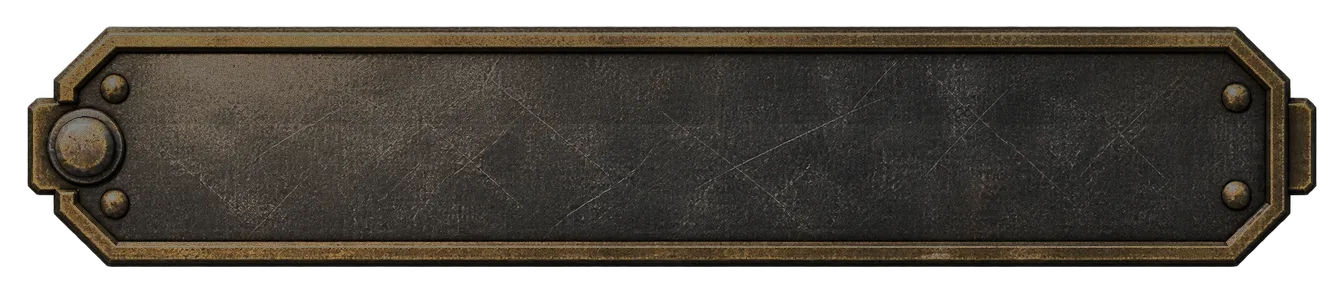
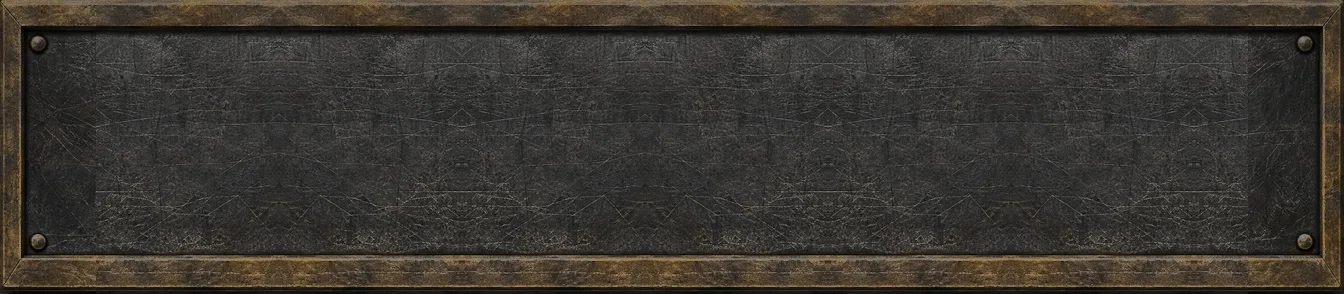
fix(menu): plates drawn per measured box, opaque to the edge
The search and rail buttons kept a plate whose silhouette was smaller than the
measured box, so the box edges showed the background through. Fitting is
`contain`, and `contain` is measured from the background positioning area, so
the positioning area is now the border box on the search row, the rail and the
desktop menu rule (>=970px); no `100% 100%` and no box was narrowed.

New drawings replace the old ones for those three groups. Each is opaque to all
four edges and drawn at its measured box aspect, so `contain` fills the box:
search 98/152/314/115/178/366, rail undo 135.88 and resign 132, desktop 320. The
phone menu plate is untouched. The rail label no longer lands on a bolt.

menuButtonGeometry.spec.ts and botUndo.spec.ts now assert the plate properties
that make a box close: opaque (no alpha channel) and within 1% of the measured
box aspect, plus border-box on the desktop rule. 621 tests pass, tsc clean.

diff --git a/src/client/app/menuButtonGeometry.spec.ts b/src/client/app/menuButtonGeometry.spec.ts
@@ -140,6 +140,12 @@ it('keeps the search card and its buttons at the main geometry while the count r
 	expect(gates).toContain("url('./ui/siege/button-steel-search-314-rest.webp')");
 	expect(gates).toContain("url('./ui/siege/button-steel-search-366-rest.webp')");
 	expect(gates).toContain('background-size:contain');
+	// `contain` is measured from the background positioning area, and that must be the border
+	// box: with the default padding-box it is fitted to the padded content area, which is
+	// smaller than the measured box, so the box edges show through. Guards the padding-box bug.
+	expect(gates).toMatch(/#opening-search-actions button \{[^}]*background-origin:border-box; background-clip:border-box;/);
+	expect(gates).toMatch(/background-size:contain;\s*background-origin:border-box; background-clip:border-box;/);
+	expect(gates).not.toMatch(/#opening-search-actions button \{[^}]*background-origin:padding-box/);
 	expect(gates).toContain("background-image:url('./ui/siege/button-steel-pressed.webp')");
 	// Короткие экраны: карточка не закрывает соседние половины «Летописи»/«Битв» и не прячет их.
 	// Она ограничена по высоте свободным местом над их верхом и прокручивается внутри.
@@ -150,6 +156,61 @@ it('keeps the search card and its buttons at the main geometry while the count r
 	const panel = html.match(/<div id="opening-search"[\s\S]*?<button id="opening-retry"/)![0];
 	expect(panel).toMatch(
 		/<p id="opening-search-copy"[^>]*>[^<]*<\/p>\s*<\/div>\s*<p id="opening-online-count"[^>]*hidden><\/p>\s*<\/div>\s*<div id="opening-search-actions">/,
+	);
+});
+
+function readWebp(path: string) {
+	const data = readFileSync(path);
+	expect(data.toString('ascii', 0, 4)).toBe('RIFF');
+	expect(data.toString('ascii', 8, 12)).toBe('WEBP');
+	const tag = data.toString('ascii', 12, 16);
+	if (tag === 'VP8 ') {
+		// Lossy keyframe: 3-byte frame tag, the 0x9d012a start code, then two 14-bit sizes.
+		expect(data[23]).toBe(0x9d);
+		expect(data[24]).toBe(0x01);
+		expect(data[25]).toBe(0x2a);
+		return { width: data[26] | ((data[27] & 0x3f) << 8), height: data[28] | ((data[29] & 0x3f) << 8), hasAlpha: false };
+	}
+	if (tag === 'VP8X') {
+		return {
+			width: 1 + (data[24] | (data[25] << 8) | (data[26] << 16)),
+			height: 1 + (data[27] | (data[28] << 8) | (data[29] << 16)),
+			hasAlpha: (data[20] & 0x10) !== 0,
+		};
+	}
+	throw new Error(`unexpected webp chunk ${tag}`);
+}
+
+/**
+ * A plate closes the box only when it was drawn for that box: `contain` fits the whole drawing
+ * into the border box, so the drawing's own aspect must be the measured box aspect and the
+ * drawing must be opaque to the edge. A stretched 100% 100% raster or a re-used foreign plate
+ * fails here even though the CSS still says `contain`.
+ */
+it('gives the search and desktop buttons a plate drawn per measured box, opaque to the edge', () => {
+	// Measured boxes (px at --btn-h:70): search row at 390 is 314/152/98, at 1280 and 1440 it is
+	// 366/178/115.33; the desktop menu is 320.
+	const boxes: [string, number][] = [
+		['button-steel-search-98', 98],
+		['button-steel-search-152', 152],
+		['button-steel-search-314', 314],
+		['button-steel-search-115', 115.33],
+		['button-steel-search-178', 178],
+		['button-steel-search-366', 366],
+		['button-steel-desk', 320],
+	];
+	for (const [stem, boxWidth] of boxes) {
+		for (const state of ['rest', 'pressed']) {
+			const url = new URL(`./ui/siege/${stem}-${state}.webp`, import.meta.url);
+			const size = readWebp(fileURLToPath(url));
+			expect(size.hasAlpha, `${stem}-${state} must be opaque`).toBe(false);
+			// 1% off the box aspect already leaves a visible band on a 70px button.
+			expect(Math.abs(size.width / size.height - boxWidth / BASE_HEIGHT)).toBeLessThan(0.01);
+		}
+	}
+	// The desktop menu rule (>=970px) fits its own 320x70 plate with contain, to the border box.
+	expect(gates).toMatch(
+		/#opening :is\(#opening-play,#opening-online,#opening-retry,#opening-history,#opening-options\) \{\s*background-image:url\('\.\/ui\/siege\/button-steel-desk-rest\.webp'\);[^}]*background-size:contain;\s*background-origin:border-box; background-clip:border-box;/,
 	);
 });
 

diff --git a/src/client/app/openingGates.css b/src/client/app/openingGates.css
@@ -75,7 +75,7 @@
 #opening-online-count[hidden] { display:none; }
 /* Search plaques keep the measured flex boxes. Each ratio has its own plate, contained, not stretched. */
 #opening-search-actions { display:flex; flex-wrap:wrap; gap:10px; justify-content:center; align-items:stretch; }
-#opening-search-actions button { position:relative; flex:1 1 calc(33.333% - 7px); min-width:0; min-height:44px; height:var(--btn-h); display:flex; align-items:center; justify-content:center; margin:0; padding:0 14px 0 22px; border:0; border-radius:0; box-shadow:none; background:transparent url('./ui/siege/button-steel-search-98-rest.webp') center/contain no-repeat; color:#e9e0ce; font:600 clamp(13px,3.9cqw,16px)/1.15 'Golos Text',sans-serif; text-shadow:0 1px 2px #000; transform:none; transition:none; -webkit-tap-highlight-color:transparent; }
+#opening-search-actions button { position:relative; flex:1 1 calc(33.333% - 7px); min-width:0; min-height:44px; height:var(--btn-h); display:flex; align-items:center; justify-content:center; margin:0; padding:0 14px 0 22px; border:0; border-radius:0; box-shadow:none; background:transparent url('./ui/siege/button-steel-search-98-rest.webp') center/contain no-repeat; background-origin:border-box; background-clip:border-box; color:#e9e0ce; font:600 clamp(13px,3.9cqw,16px)/1.15 'Golos Text',sans-serif; text-shadow:0 1px 2px #000; transform:none; transition:none; -webkit-tap-highlight-color:transparent; }
 #opening-search-actions button::before, #opening-search-actions button::after { content:''; position:absolute; top:50%; width:5px; height:5px; border-radius:50%; background:#a29b81; box-shadow:0 1px 2px #000; }
 #opening-search-actions button::before { left:7px; }
 #opening-search-actions button::after { right:7px; }
@@ -155,7 +155,7 @@
 }
 
 #match-rail{position:fixed;z-index:10000;left:50%;bottom:calc(12px + env(safe-area-inset-bottom));transform:translateX(-50%);display:flex;gap:8px;pointer-events:none}
-#match-rail .opening-utility{display:flex;align-items:center;justify-content:center;height:var(--btn-h);min-height:44px;min-width:132px;padding:0 14px;gap:6px;border:0;border-radius:0;box-shadow:none;background:transparent url('./ui/siege/button-steel-rail-resign-rest.webp') center/contain no-repeat;color:#e9e0ce;font:600 16px/1.15 "Golos Text",sans-serif;text-shadow:0 1px 2px #000;transition:none;transform:none;pointer-events:auto;touch-action:manipulation;-webkit-tap-highlight-color:transparent}
+#match-rail .opening-utility{display:flex;align-items:center;justify-content:center;height:var(--btn-h);min-height:44px;min-width:132px;padding:0 14px;gap:6px;border:0;border-radius:0;box-shadow:none;background:transparent url('./ui/siege/button-steel-rail-resign-rest.webp') center/contain no-repeat;background-origin:border-box;background-clip:border-box;color:#e9e0ce;font:600 16px/1.15 "Golos Text",sans-serif;text-shadow:0 1px 2px #000;transition:none;transform:none;pointer-events:auto;touch-action:manipulation;-webkit-tap-highlight-color:transparent}
 #match-rail .opening-utility:active{filter:none;background-image:url('./ui/siege/button-steel-rail-resign-pressed.webp');transform:translateY(2px)}
 #match-rail #match-undo{background-image:url('./ui/siege/button-steel-rail-undo-rest.webp')}
 #match-rail #match-undo:active{background-image:url('./ui/siege/button-steel-rail-undo-pressed.webp')}
@@ -178,6 +178,7 @@
  #opening :is(#opening-play,#opening-online,#opening-retry,#opening-history,#opening-options) {
   background-image:url('./ui/siege/button-steel-desk-rest.webp');
   background-repeat:no-repeat; background-position:center; background-size:contain;
+  background-origin:border-box; background-clip:border-box;
  }
  #opening :is(#opening-play,#opening-online,#opening-retry,#opening-history,#opening-options):active {
   background-image:url('./ui/siege/button-steel-desk-pressed.webp');

diff --git a/src/client/app/botUndo.spec.ts b/src/client/app/botUndo.spec.ts
@@ -1,3 +1,5 @@
+import { readFileSync } from 'node:fs';
+import { fileURLToPath } from 'node:url';
 import css from './openingGates.css?raw';
 import chronicle from './hangingChronicle.css?raw';
 import { expect, it } from 'vitest';
@@ -37,6 +39,14 @@ it('rail plates carry the menu steel material at the shared button height', () =
  expect(css).toMatch(/#match-rail \.opening-utility\{[^}]*contain no-repeat/);
  expect(css).not.toMatch(/#match-rail \.opening-utility\{[^}]*100% 100%/);
  expect(css).not.toMatch(/#match-rail \.opening-utility\{[^}]*736 \/ 295/);
+ // `contain` must be fitted to the border box, otherwise it is fitted to the padded content
+ // area and the measured box edges show through. Guards the padding-box regression.
+ expect(css).toMatch(/#match-rail \.opening-utility\{[^}]*background-origin:border-box/);
+ expect(css).toMatch(/#match-rail \.opening-utility\{[^}]*background-clip:border-box/);
+ expect(css).not.toMatch(/#match-rail \.opening-utility\{[^}]*background-origin:padding-box/);
+ // Each label has its own drawing with no large left bolt, so the label sits on the recessed
+ // panel and not on a bolt.
+ expect(css).toContain("url('./ui/siege/button-steel-rail-undo-rest.webp')");
  // The grey plaque the player reported is gone, not recoloured.
  expect(css).not.toContain('border:1px solid #62635b');
  expect(css).not.toContain('background:#202526');
@@ -45,6 +55,46 @@ it('rail plates carry the menu steel material at the shared button height', () =
  expect(css).toContain('#match-undo:focus-visible,#match-resign:focus-visible{outline:3px solid #bed9ec');
  expect(css).toContain('-webkit-tap-highlight-color:transparent');
  expect(css).not.toMatch(/-webkit-tap-highlight-color:\s*rgba?\(/);
+});
+
+function readWebp(path: string) {
+ const data = readFileSync(path);
+ expect(data.toString('ascii', 0, 4)).toBe('RIFF');
+ expect(data.toString('ascii', 8, 12)).toBe('WEBP');
+ const tag = data.toString('ascii', 12, 16);
+ if (tag === 'VP8 ') {
+  // Lossy keyframe: 3-byte frame tag, the 0x9d012a start code, then two 14-bit sizes.
+  expect(data[23]).toBe(0x9d);
+  expect(data[24]).toBe(0x01);
+  expect(data[25]).toBe(0x2a);
+  return { width: data[26] | ((data[27] & 0x3f) << 8), height: data[28] | ((data[29] & 0x3f) << 8), hasAlpha: false };
+ }
+ if (tag === 'VP8X') {
+  return {
+   width: 1 + (data[24] | (data[25] << 8) | (data[26] << 16)),
+   height: 1 + (data[27] | (data[28] << 8) | (data[29] << 16)),
+   hasAlpha: (data[20] & 0x10) !== 0,
+  };
+ }
+ throw new Error(`unexpected webp chunk ${tag}`);
+}
+
+// `contain` fits the whole drawing into the border box, so the rail plate closes its box only when
+// it was drawn for that box: opaque to the edge and at the measured box aspect. A stretched or
+// re-used plate fails here even while the CSS still says `contain`.
+it('draws one opaque rail plate per measured label box', () => {
+ const boxes: [string, number][] = [
+  ['button-steel-rail-undo', 135.88],
+  ['button-steel-rail-resign', 132],
+ ];
+ for (const [stem, boxWidth] of boxes) {
+  for (const state of ['rest', 'pressed']) {
+   const size = readWebp(fileURLToPath(new URL(`./ui/siege/${stem}-${state}.webp`, import.meta.url)));
+   expect(size.hasAlpha, `${stem}-${state} must be opaque`).toBe(false);
+   // 1% off the box aspect already leaves a visible band on a 70px button.
+   expect(Math.abs(size.width / size.height - boxWidth / 70)).toBeLessThan(0.01);
+  }
+ }
 });
 
 it('rail reveal waits for the same gate as the board with HUD', () => {
